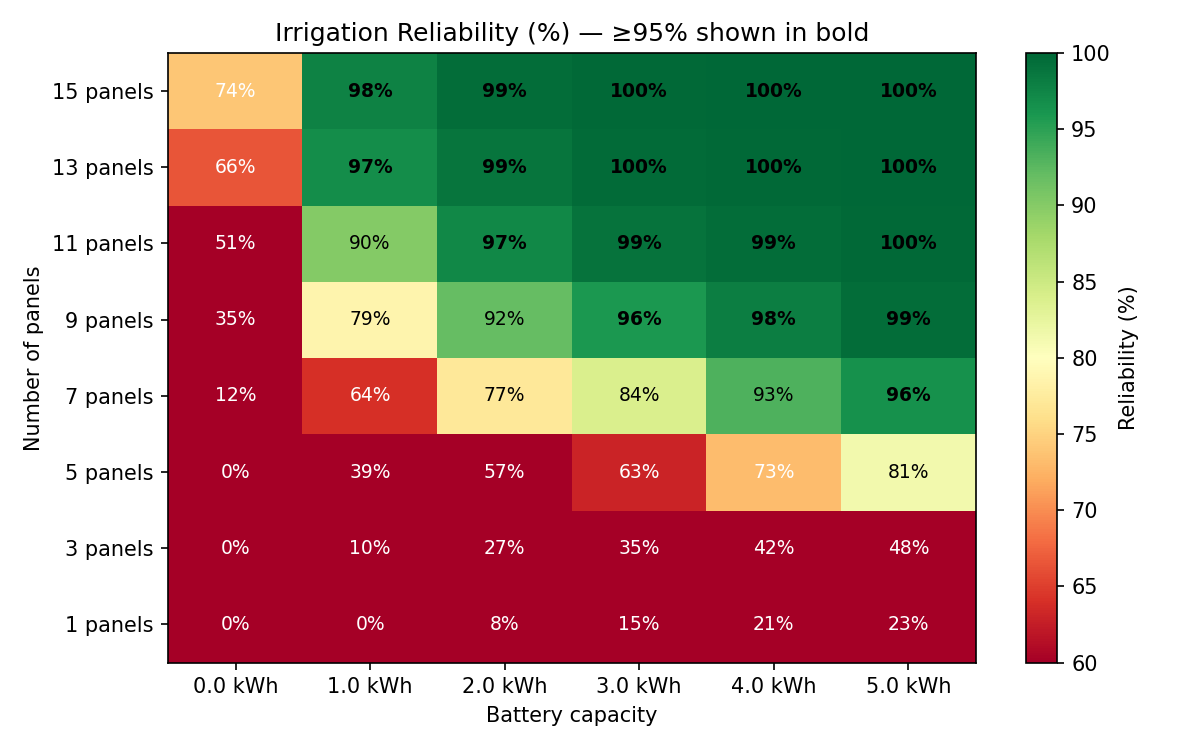
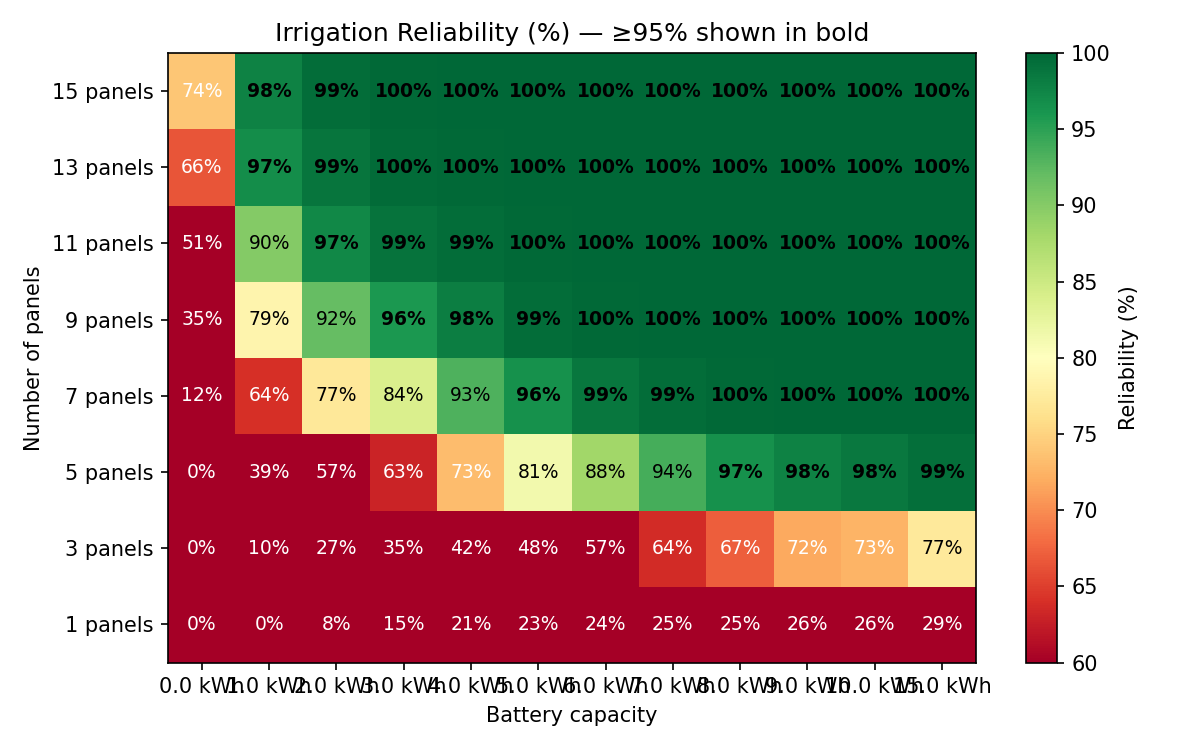
full sweep

diff --git a/one-year-analysis/1-solar-power/solar_statistics.py b/one-year-analysis/1-solar-power/solar_statistics.py
@@ -40,7 +40,7 @@ Plot inventory (in output order)
 # USER PARAMETERS  — edit these when running from VSCode / F5
 # =============================================================================
 
-YEAR         = 2018
+YEAR         = 2022
 INPUT_CSV    = f'one-year-analysis/1-solar-power/gen-power/4469509_24.96_-78.05_{YEAR}_power.csv'
 IMAGES_DIR   = f'one-year-analysis/1-solar-power/images/{YEAR}'
 THRESHOLD_KW = 1.0      # Power threshold for the hours-above plot [kW]
